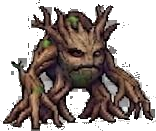
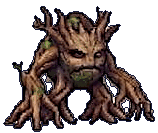
夥伴角色強化（6/12）：魔像
- 修圖：棋盤格殘渣清掉；第 5 階段綠色光芒裡的棋盤格直接挖乾淨（保護鬍子），光芒改用程式畫
- 特效：苔綠光暈、環繞長苔蘚的小石頭
- 專屬背景：長滿苔蘚的古代遺跡，石柱、拱門、斷崖瀑布，孢子往上飄
- 部位動作：岩石本體呼吸、芽搖、樹人頭冠擺；最終階段雙臂擺動、點擊時往外揮

Claude-Session: https://claude.ai/code/session_016wQJDqNmeMZi3CzSXZ7hYD

diff --git a/web/js/core.js b/web/js/core.js
@@ -179,12 +179,15 @@ const PET_FX = {
   spirit: { from: 2, aura: "140,240,215", orb: "wisp", colors: ["#1E6B66", "#5FE0C8", "#F2FFF9"], spark: "#BFFFF0", float: 5, sway: 2 },
   // 死靈法師：綠色魂火的光暈，環繞小骷髏
   necromancer: { from: 2, aura: "110,240,150", orb: "skull", colors: ["#1A1424", "#E8E2CF", "#4DFF9A"], spark: "#9BFFC4", sway: 2 },
+  // 魔像：苔綠的光暈，環繞長著苔蘚的小石頭
+  golem: { from: 2, aura: "120,225,140", orb: "rock", colors: ["#2B2A26", "#7C7466", "#7FE0A0"], spark: "#A7F0B8" },
   beast_tamer: { from: 2, aura: "140,215,100", orb: "leaf", colors: ["#28501C", "#68AE36", "#D2F59A"], spark: "#CFF59A", sway: 2 },
 };
 const ORB_GRID = {
   flame: ["...1...", "..121..", "..121..", ".12221.", ".12321.", "1223321", "1233321", ".12321.", "..111.."],
   bat: ["1.......1", "11.....11", "111.1.111", "111222111", ".1232321.", "..12221..", "...1.1..."],
   skull: [".11111.", "1222221", "1322231", "1222221", ".12221.", ".12121.", "..111.."],
+  rock: ["..111..", ".12221.", "1222231", "1223321", ".12221.", "..111.."],
   wisp: ["..111..", ".12221.", "1233321", "1233321", ".12321.", "..121..", "...1..."],
   leaf: ["....111", "...1221", "..12321", ".123221", "1232211", "122211.", "1111...", "1......"],
 };
@@ -286,6 +289,25 @@ const PET_SCENE = {
     const wisps = Array.from({ length: 6 }, (_, i) => `<i class="firefly ghostfire" style="--i:${i}"></i>`).join("");
     return `<svg class="scene-art" viewBox="0 0 160 80" preserveAspectRatio="xMidYMax slice" shape-rendering="crispEdges">${s}</svg>${wisps}<i class="mist green"></i><i class="mist green m2"></i>`;
   },
+  // 魔像：長滿苔蘚的古代遺跡，石柱、拱門、斷崖和瀑布，孢子慢慢往上飄
+  golem: () => {
+    let s = bands(0, ["#9FB8B2", "#A6BDB3", "#ADC2B4", "#B4C6B2", "#BCCAAF", "#C3CEAC", "#C9D1A8", "#CED3A4", "#D2D4A0", "#D4D49C"], 5);
+    // 斷崖和瀑布（右邊）
+    s += PX(118, 6, 42, 42, "#6E7A6E") + PX(122, 4, 38, 4, "#7F8B7C") + PX(118, 18, 4, 30, "#5E6A5F") + PX(140, 10, 6, 38, "#D8F2F0") + PX(142, 10, 2, 38, "#FFFFFF");
+    for (let y = 8; y < 46; y += 7) s += PX(124, y, 12, 2, "#5D7A4E") + PX(150, y + 3, 8, 2, "#5D7A4E");
+    // 遠山
+    for (let x = 0; x < 118; x += 2) { const h = 8 + Math.round(4 * Math.sin(x / 10) + 3 * Math.sin(x / 4.6)); s += PX(x, 46 - h, 2, h, "#8A9C8A"); }
+    // 地面
+    s += PX(0, 46, 160, 34, "#5F7A4A") + PX(0, 46, 160, 2, "#7A9658") + PX(0, 62, 160, 18, "#4E6A3E");
+    s += PX(132, 46, 24, 6, "#8FD0D6") + PX(134, 47, 20, 1, "#D8F2F0");
+    // 古代石柱、拱門（左邊）
+    const pillar = (x, top, h) => PX(x, top, 7, h, "#9A9486") + PX(x + 1, top, 2, h, "#B5AF9F") + PX(x - 1, top - 2, 9, 2, "#857F72") + PX(x - 1, top + h, 9, 2, "#6F6A60") + PX(x, top + 4, 7, 2, "#6C8F4E");
+    s += pillar(10, 22, 26) + pillar(34, 30, 18) + PX(8, 18, 36, 4, "#8E887B") + PX(10, 17, 32, 1, "#A9A394") + PX(12, 18, 10, 2, "#6C8F4E");
+    s += pillar(100, 38, 10) + PX(84, 54, 10, 4, "#8E887B") + PX(85, 53, 8, 1, "#A9A394");
+    [[60, 52, 6], [20, 60, 8], [110, 64, 5]].forEach(([x, y, w]) => (s += PX(x, y, w, 3, "#7E7A6E") + PX(x, y, w, 1, "#6C8F4E")));
+    const spores = Array.from({ length: 7 }, (_, i) => `<i class="firefly spore" style="--i:${i}"></i>`).join("");
+    return `<svg class="scene-art" viewBox="0 0 160 80" preserveAspectRatio="xMidYMax slice" shape-rendering="crispEdges">${s}</svg>${spores}`;
+  },
   // 精靈使：月夜的精靈泉，極光、古樹、發光的蘑菇，螢火慢慢往上飄
   spirit: () => {
     let s = bands(0, ["#0B1430", "#0E1B3B", "#112346", "#142C50", "#17365A", "#1A4062", "#1D4A69", "#20536E", "#235B72", "#266274"], 5);
@@ -354,6 +376,12 @@ const PET_FRONT = {
       `<i class="petal front" style="--i:2"></i><i class="petal front" style="--i:5"></i>`;
   },
   succubus: () => `<i class="mist front"></i><i class="mist front m2"></i>`,
+  golem: () => {
+    let s = "";
+    for (let x = 0; x < 160; x += 2) { const h = 2 + ((x * 13) % 5); s += PX(x, 10 - h, 1, h, x % 6 ? "#4A6A36" : "#5E8442"); }
+    s += PX(6, 5, 14, 5, "#6E6A60") + PX(7, 4, 12, 1, "#6C8F4E") + PX(138, 6, 12, 4, "#6E6A60") + PX(139, 5, 10, 1, "#6C8F4E");
+    return `<svg class="front-art" viewBox="0 0 160 10" preserveAspectRatio="none" shape-rendering="crispEdges">${s}</svg>`;
+  },
   necromancer: () => `<i class="mist green front"></i><i class="mist green front m2"></i>`,
   spirit: () => {
     let s = "";
@@ -378,7 +406,7 @@ const petFront = (id) => (PET_FRONT[id] ? `<span class="scene-front" aria-hidden
 
 // 夥伴圖：有拆部位的（rigs.json）用分層組回角色，點擊時頭、翅膀、尾巴、下襬各自動；沒有的用整張圖
 // 圖層順序：翅膀、尾巴、魔力圈在身體後面；上半身、頭在前面。腳留在身體層，不另外動
-const RIG_Z = { wingL: 0, wingR: 0, tail: 0, tailL: 0, tailR: 0, ringL: 0, ringR: 0, torso: 2, head: 3, beast: 2, mane: 2, crystal: 3, wisp: 3, fairy: 3, ghost: 3, flame: 3, minion: 2 };
+const RIG_Z = { wingL: 0, wingR: 0, tail: 0, tailL: 0, tailR: 0, ringL: 0, ringR: 0, torso: 2, head: 3, beast: 2, mane: 2, crystal: 3, wisp: 3, fairy: 3, ghost: 3, flame: 3, minion: 2, armL: 2, armR: 2 };
 function petSprite(id, stage, boxH) {
   const rig = S.rigs?.[id]?.[stage + 1], sp = species(id);
   if (!rig || !sp) return charImg(id, stage, boxH);

diff --git a/web/style.css b/web/style.css
@@ -865,6 +865,7 @@ ol.steps { margin: 0; padding-left: 1.4em; font-size: .9375rem; line-height: 1.7
 .scene .firefly.ghostfire { width: 4px; height: 5px; background: #8DFFB4; box-shadow: 0 0 6px 2px rgba(90, 255, 150, .7); }
 .scene .mist.green, .scene-front .mist.green {
   background: repeating-linear-gradient(90deg, rgba(120, 230, 160, 0) 0 18px, rgba(120, 230, 160, .3) 18px 60px, rgba(120, 230, 160, 0) 60px 90px); }
+.scene .firefly.spore { width: 2px; height: 2px; background: #EAF7C8; box-shadow: 0 0 3px rgba(220, 255, 190, .8); }
 .scene .star { position: absolute; width: 3px; height: 3px; background: #FFF4D6; box-shadow: 0 0 4px #FFF4D6; }
 .scene .mist { position: absolute; left: -40%; bottom: 14%; width: 180%; height: 22px; opacity: .55;
   background: repeating-linear-gradient(90deg, rgba(190, 130, 230, .0) 0 18px, rgba(190, 130, 230, .35) 18px 60px, rgba(190, 130, 230, 0) 60px 90px); }
@@ -902,6 +903,9 @@ ol.steps { margin: 0; padding-left: 1.4em; font-size: .9375rem; line-height: 1.7
 .stage[data-scene="necromancer"] .pet img, .stage[data-scene="necromancer"] .pet .wavy {
   filter: brightness(.95) drop-shadow(2px 0 0 rgba(140, 240, 170, .6)) drop-shadow(0 0 10px rgba(80, 210, 130, .35)); }
 .stage[data-scene="necromancer"] .pet-shadow { background: rgba(0, 8, 4, .6); box-shadow: 0 0 14px 4px rgba(80, 210, 130, .2); }
+.stage[data-scene="golem"] .pet img, .stage[data-scene="golem"] .pet .wavy {
+  filter: drop-shadow(-2px 0 0 rgba(235, 242, 215, .55)) drop-shadow(0 0 8px rgba(120, 220, 140, .3)); }
+.stage[data-scene="golem"] .pet-shadow { background: rgba(20, 30, 15, .55); }
 .stage[data-scene="spirit"] .pet img, .stage[data-scene="spirit"] .pet .wavy {
   filter: brightness(.95) drop-shadow(-2px 0 0 rgba(220, 255, 245, .55)) drop-shadow(0 0 10px rgba(110, 230, 205, .35)); }
 .stage[data-scene="spirit"] .pet-shadow { background: rgba(5, 20, 25, .55); box-shadow: 0 0 14px 4px rgba(110, 230, 205, .2); }
@@ -927,6 +931,14 @@ ol.steps { margin: 0; padding-left: 1.4em; font-size: .9375rem; line-height: 1.7
   /* 上半身呼吸：以腰為軸，吸氣時肩膀、胸口一起微微上抬、身體稍微變寬；頭跟著起伏。腳在身體層，不動 */
   .rig .rp-breath { animation: torso-breath 4s ease-in-out infinite; }
   /* 動物：頭慢慢點一下、點擊時低吼抖一下；水晶漂浮；火焰跳動 */
+  .rig .rp-swayL { animation: idle-swayL 4s ease-in-out infinite; }
+  .rig .rp-swayR { animation: idle-swayR 4s ease-in-out infinite; }
+  .pet.react .rig .rp-swayL { animation: punchL .8s ease-out 1; }
+  .pet.react .rig .rp-swayR { animation: punchR .8s ease-out 1; }
+  @keyframes idle-swayL { 50% { rotate: 3deg; } }
+  @keyframes idle-swayR { 50% { rotate: -3deg; } }
+  @keyframes punchL { 30% { rotate: 14deg; } 100% { rotate: 0deg; } }
+  @keyframes punchR { 30% { rotate: -14deg; } 100% { rotate: 0deg; } }
   .rig .rp-nod { animation: idle-nod 4s ease-in-out infinite; }
   .rig .rp-bob { animation: idle-bob 3s steps(6, jump-none) infinite alternate; }
   .rig .rp-flicker { animation: idle-flicker .9s steps(2) infinite; }

diff --git a/tools/rig_split.py b/tools/rig_split.py
@@ -66,6 +66,14 @@ RIGS: dict[str, dict[int, list]] = {
         4: [("minion", [128, 58, 156, 82], [142, 82], "nod"), ("torso", [55, 70, 108, 115], [82, 115], "breath")],
         5: [("head", [90, 30, 116, 62], [103, 62], "tilt"), ("beast", [158, 92, 196, 136], [162, 112], "nod"),
             ("torso", [72, 62, 130, 110], [100, 110], "breath")]},
+    # 魔像：岩石本體呼吸起伏；頭上的芽搖；樹人頭冠擺；最終階段鹿角頭冠、上半身、雙臂擺動
+    "golem": {
+        1: [("torso", [8, 6, 52, 40], [30, 48], "breath")],
+        2: [("tail", [16, 2, 40, 20], [30, 20], "wag"), ("tailR", [66, 0, 92, 20], [75, 20], "wag"), ("torso", [12, 20, 94, 62], [52, 76], "breath")],
+        3: [("head", [40, 4, 116, 72], [78, 72], "tilt")],
+        4: [("head", [60, 6, 106, 55], [83, 55], "tilt"), ("torso", [38, 55, 126, 95], [83, 95], "breath")],
+        5: [("head", [36, 8, 140, 70], [88, 70], "tilt"), ("armL", [18, 82, 56, 152], [50, 86], "swayL"),
+            ("armR", [118, 82, 156, 150], [124, 86], "swayR"), ("torso", [55, 70, 120, 120], [88, 120], "breath")]},
     "fox_spirit": {
         1: [("head", [36, 0, 77, 42], [52, 40], "tilt"), ("tail", [4, 18, 36, 66], [36, 52], "wag")],
         2: [("head", [48, 8, 82, 46], [64, 46], "tilt"), ("tailL", [6, 38, 50, 112], [50, 70], "fanL"), ("torso", [46, 46, 85, 95], [64, 95], "breath")],

diff --git a/tools/pixel_polish.py b/tools/pixel_polish.py
@@ -219,6 +219,9 @@ TUNE = {
             {"hue": (225, 320), "min_sat": 38, "vmin": 35, "vmax": 228, "sigma": 4, "glow": (140, 85, 220), "mix": 0.4, "alpha": 150},
             {"max_sat": 45, "vmin": 80, "vmax": 215, "protect": [(62, 20, 132, 173), (28, 5, 58, 173), (125, 88, 196, 173)],
              "sigma": 3, "glow": (150, 90, 230), "mix": 0.5, "alpha": 130}]}}},
+    # 魔像：第 5 階段綠色光芒裡的棋盤格 → 身體描邊清楚，直接挖乾淨（保護鬍子），光芒改用程式畫
+    "golem": {"sat": 1.15, "contrast": 1.08, "debris": True, "min_bit": 24, "holes": True, "stages": {
+        5: {"tint": {"hue": (80, 190), "max_sat": 95, "vmin": 85, "vmax": 240, "protect": [(68, 50, 102, 100)]}}}},
     "fox_spirit": {"sat": 1.25, "contrast": 1.08},   # 和服的紅、紫、金更華麗
     # 魅魔：跟九尾狐的粉紅分開 → 粉紅轉成深紫紅、整體暗一點；翅膀和魔力圈裡夾著背景棋盤格
     "succubus": {"sat": 1.2, "contrast": 1.12, "holes": True, "hue": [(296, 8, -30, 0.84)]},
